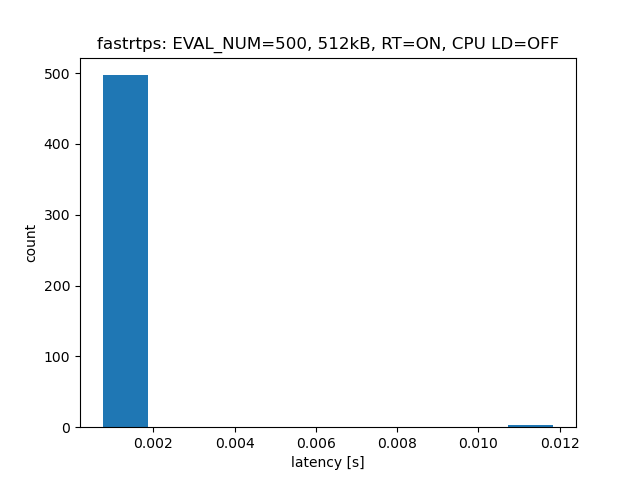
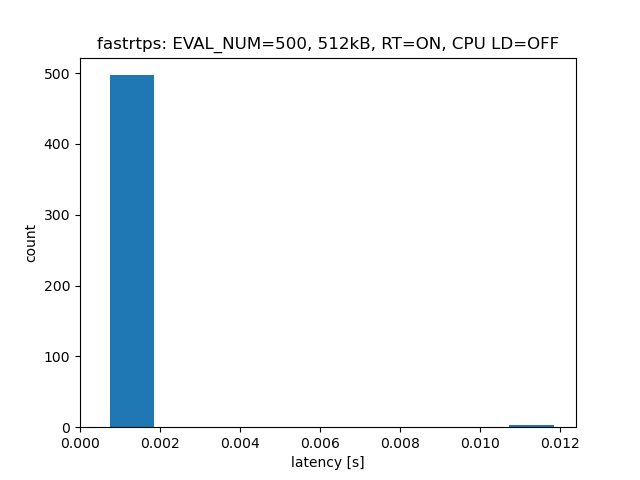
modified q2 script to match report

diff --git a/q2.py b/q2.py
@@ -19,18 +19,19 @@ mu = np.mean(data)
 std = np.std(data)
 sem = std / np.sqrt(len(data))
 
-t1 = abs(t.ppf((1 - alpha_1) / 2, df=dof)) * sem
-t2 = abs(t.ppf((1 - alpha_2) / 2, df=dof)) * sem
+t1 = abs(t.ppf((1 - alpha_1) / 2, df=dof))
+t2 = abs(t.ppf((1 - alpha_2) / 2, df=dof))
 
-c1 = [mu - t1, mu + t1]
-c2 = [mu - t2, mu + t2]
-print(dof)
-print(std)
-print(mu)
-print(c1)
-print(c2)
-print(t1)
-print(t2)
+c1 = [mu - t1*sem, mu + t1*sem]
+c2 = [mu - t2*sem, mu + t2*sem]
+print(f"dof {dof}")
+print(f"std {std}")
+print(f"sem = {sem}")
+print(f"mu {mu}")
+print(f"c1 {c1}")
+print(f"c2 {c2}")
+print(f"t1 {t1}")
+print(f"t2 {t2}")
 # plt.hist(data, density=True, bins=20, color='y')
 plt.axvline(mu, color='k', label="sample_mean")
 plt.axvline(c1[0], color='g', label="ConfidenceInterval_"+str(alpha_1))

diff --git a/definitions.py b/definitions.py
@@ -187,7 +187,7 @@ def make_boxplot(meas_data, dds, RT="ON", LD="OFF"):
     # x = [256*pow(2,i) for i in range(15)]
     x = range(1, 16)
     fig = plt.figure(figsize=[10,7.5])
-    plt.boxplot(meas_data, showfliers=True)
+    plt.boxplot(meas_data, showfliers=False)
     plt.xticks(x, file_sizes)
     plt.ylabel("latency [s]")
     plt.xlabel("data size")
@@ -208,6 +208,9 @@ def make_histogram(meas_data, dds, RT, LD):
         if i in idx:
             plt.figure()
             plt.hist(data)
+            ax=plt.gca()
+            xlim = plt.xlim()
+            ax.set_xlim([0,xlim[1]])
             plt.title(dds + ": EVAL_NUM=" + str(num) + ", " + file_sizes[i]+ f", RT={RT}, CPU LD={LD}")
             plt.xlabel('latency [s]')
             plt.ylabel("count")

diff --git a/q3_q4.py b/q3_q4.py
@@ -1,8 +1,8 @@
 from python_scripts.definitions import *
 
-EVAL_NUM = 300
+EVAL_NUM = 500
 RT = "OFF"
-LD = "ON"
+LD = "OFF"
 q = 'q3'
 
 ddses = ['fastrtps', 'opensplice', 'connext']
@@ -10,15 +10,15 @@ dds = ddses[0]
 
 print(f"Current config. : {q} {dds} {EVAL_NUM}, RT:{RT}, LD:{LD}")
 
-rebuild_flag = False
-a = set_EVAL_NUM(EVAL_NUM)
-b = set_RT(RT)
-
-rebuild_flag = a or b
-if rebuild_flag:
-    rebuild_nodes()
-
-run_meas(dds, EVAL_NUM, RT, LD)
+# rebuild_flag = False
+# a = set_EVAL_NUM(EVAL_NUM)
+# b = set_RT(RT)
+#
+# rebuild_flag = a or b
+# if rebuild_flag:
+#     rebuild_nodes()
+#
+# run_meas(dds, EVAL_NUM, RT, LD)
 
 meas_data = load_meas_data_q3(dds, EVAL_NUM, RT, LD)
 make_boxplot(meas_data, dds, RT, LD)
